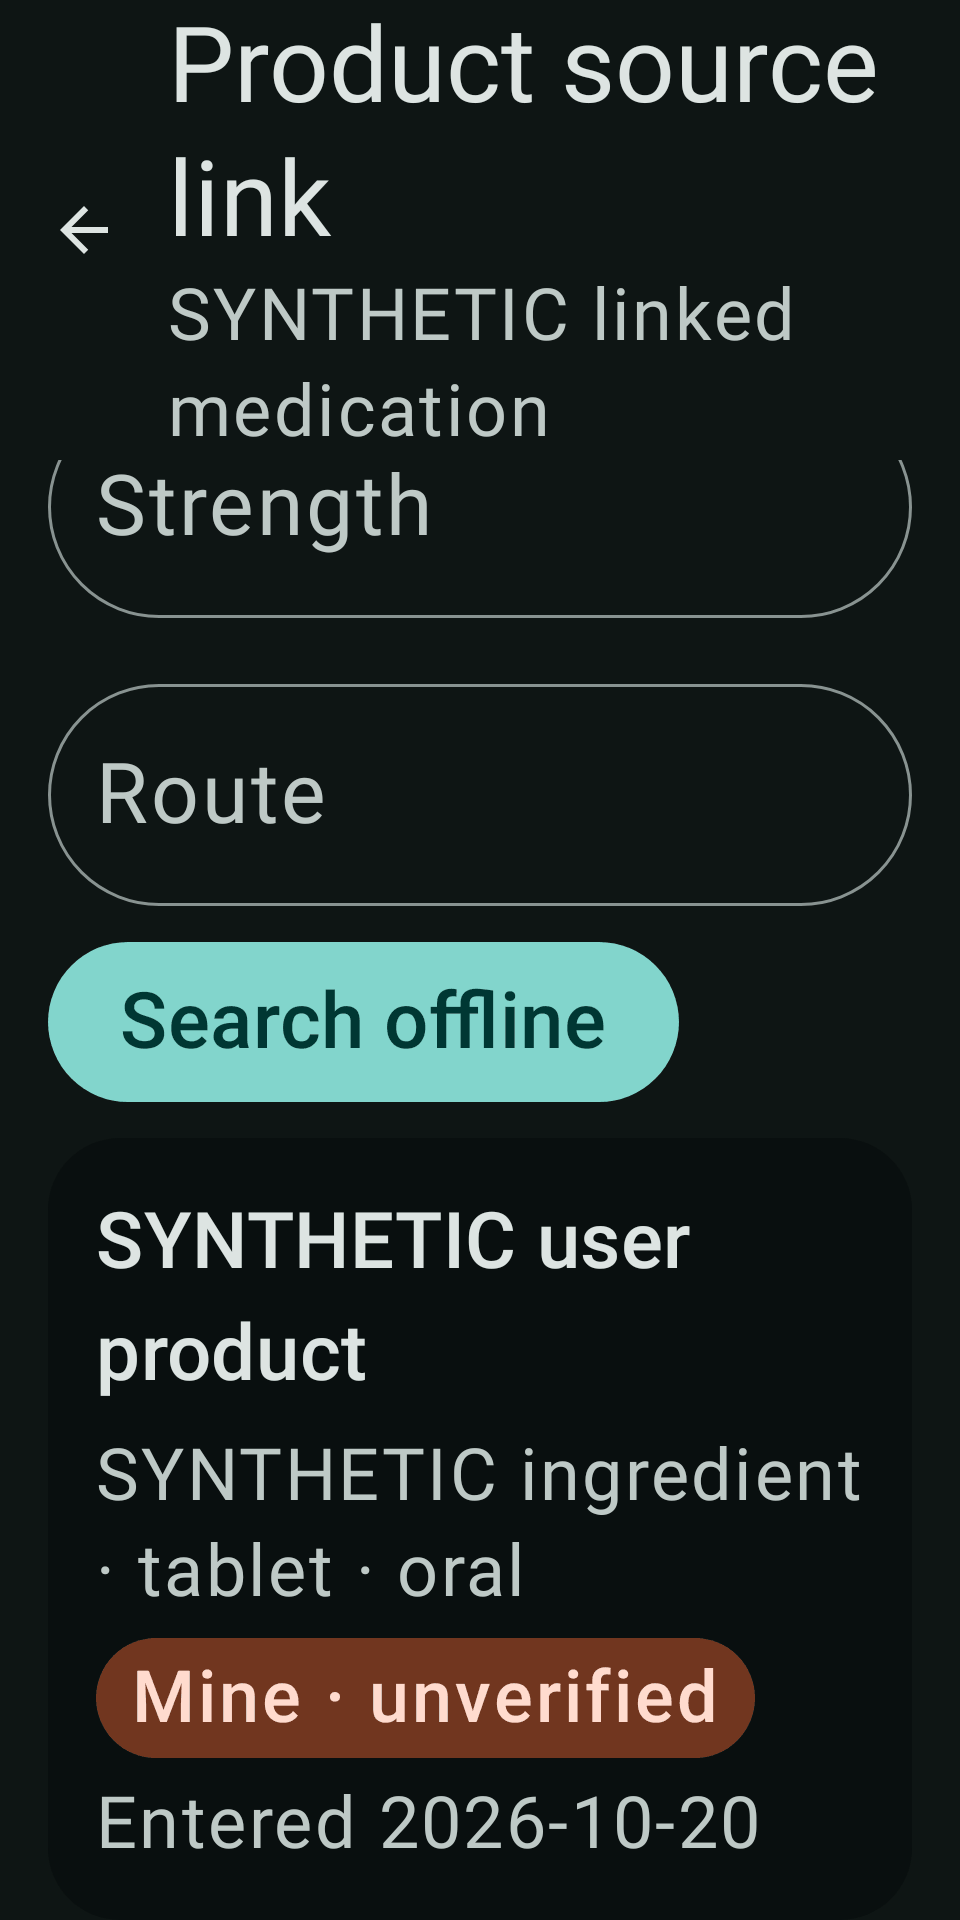
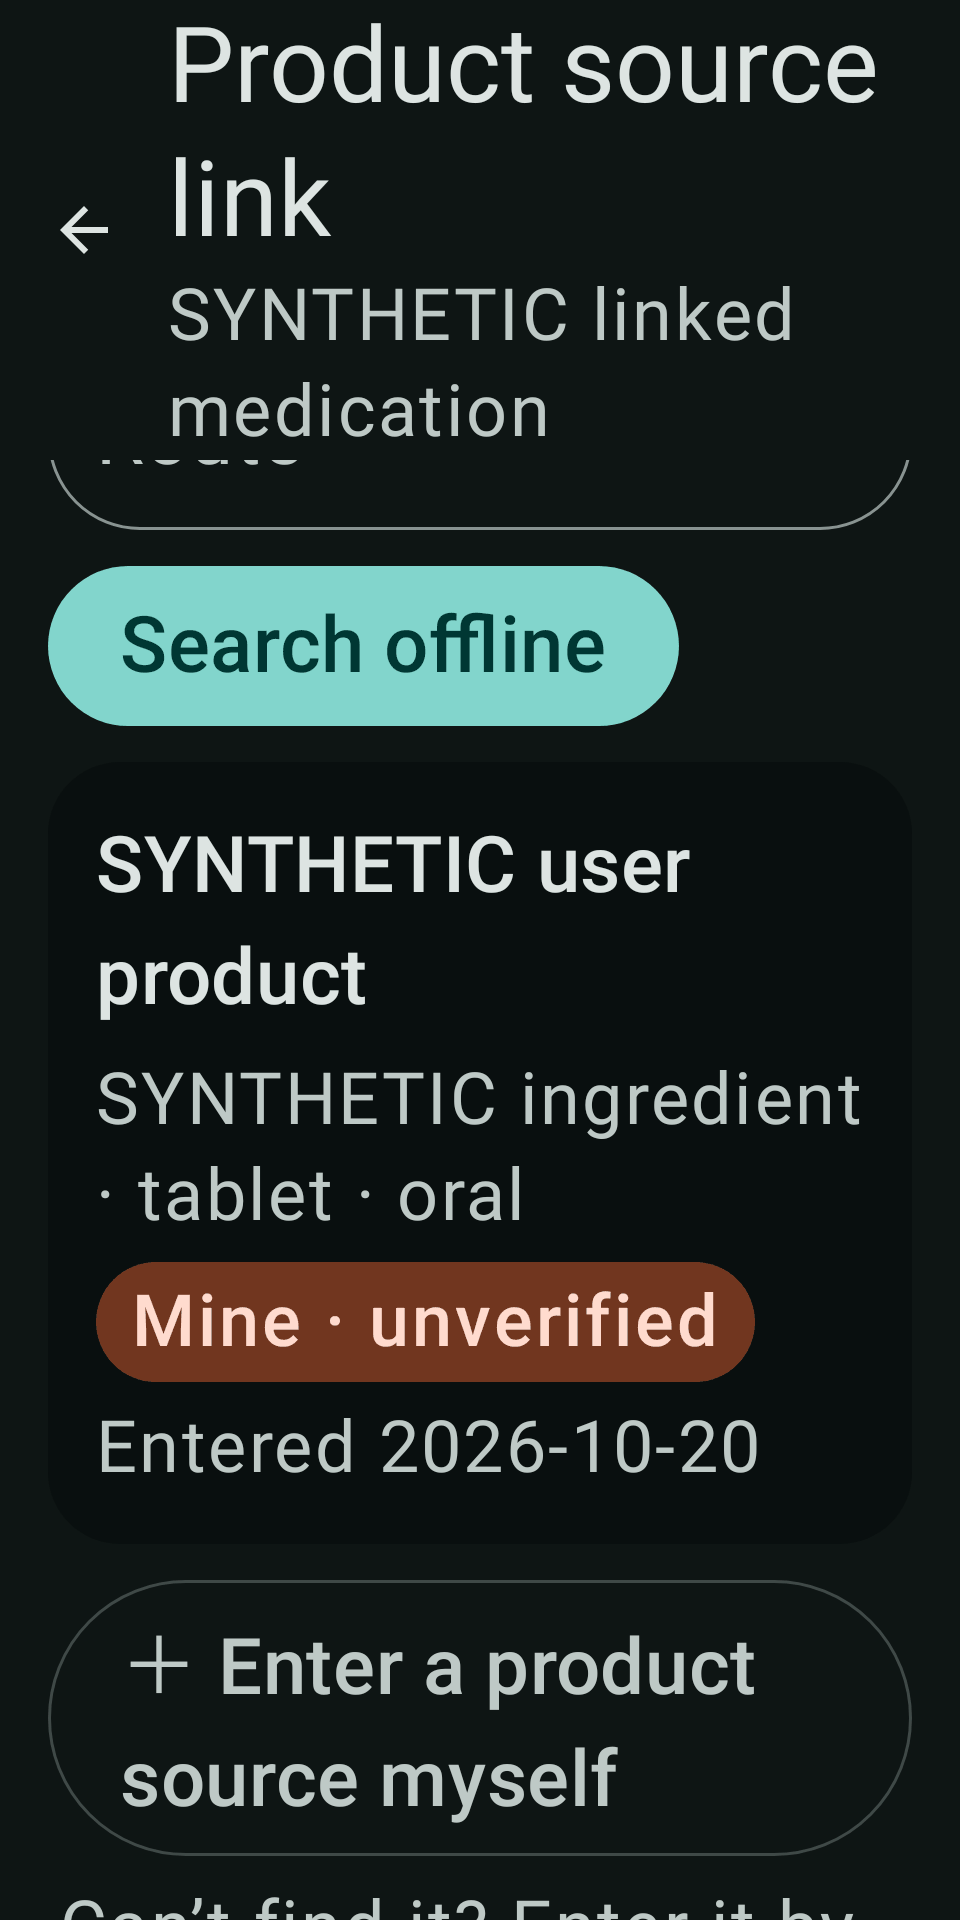
UI-11: refresh link-page screenshots (compact filter pills); report wording
Claude-Session: https://claude.ai/code/session_01ASkdWmczfefu5ZqfwkVrYS

diff --git a/docs/audits/product-quality-2026-10/77-ui11-drug-center.md b/docs/audits/product-quality-2026-10/77-ui11-drug-center.md
@@ -44,7 +44,7 @@
 ### 与任务书不同之处（均已在此说明）
 1. **包装卡/主按钮保留原确认流程。** 点包装卡仍然直接打开原来的“确认前预览”，再走“确认资料变更”。主按钮“关联此资料”在已选包装后可重新打开同一预览；它不跳过任何确认步骤。这样 `BdpmReferenceFlowContract`（点包装后立即期待预览）不需要改动。
 2. **当前关联的只读详情默认展开**，由“查看资料 / 收起资料”切换。原因：既有断言（`DrugCenterNavigationTest`、`BdpmReferenceFlowContract`）在重新打开页面后直接查找 `reference-details`，不能为此放宽断言。
-3. **筛选“药丸”是胶囊形输入框**（保留原 tag 与过滤逻辑，一行放不下时自动换行），不是点开才输入的药丸。原因同上：既有测试直接向这些输入框输入。
+3. **筛选“药丸”是胶囊形的小输入框**（`BasicTextField`，保留原 tag 与过滤逻辑，一行放不下时自动换行；未输入时显示“剂型/规格/途径”），不是点开才输入的药丸。原因同上：既有测试直接向这些输入框输入。
 4. **“尚未开放”行的 TalkBack 只读“名称，尚未开放”**，每个模块较长的说明文字只在屏幕上显示（任务书要求的朗读格式）；组下方的说明文字可朗读。
 5. 原来药品中心里的 `bdpm_available`、`drug_center_user_sources` 两段说明被“资料来源”两行取代（含义由“离线”“未经核实”和标签承载）；字符串仍在资源里，未删除。
 
